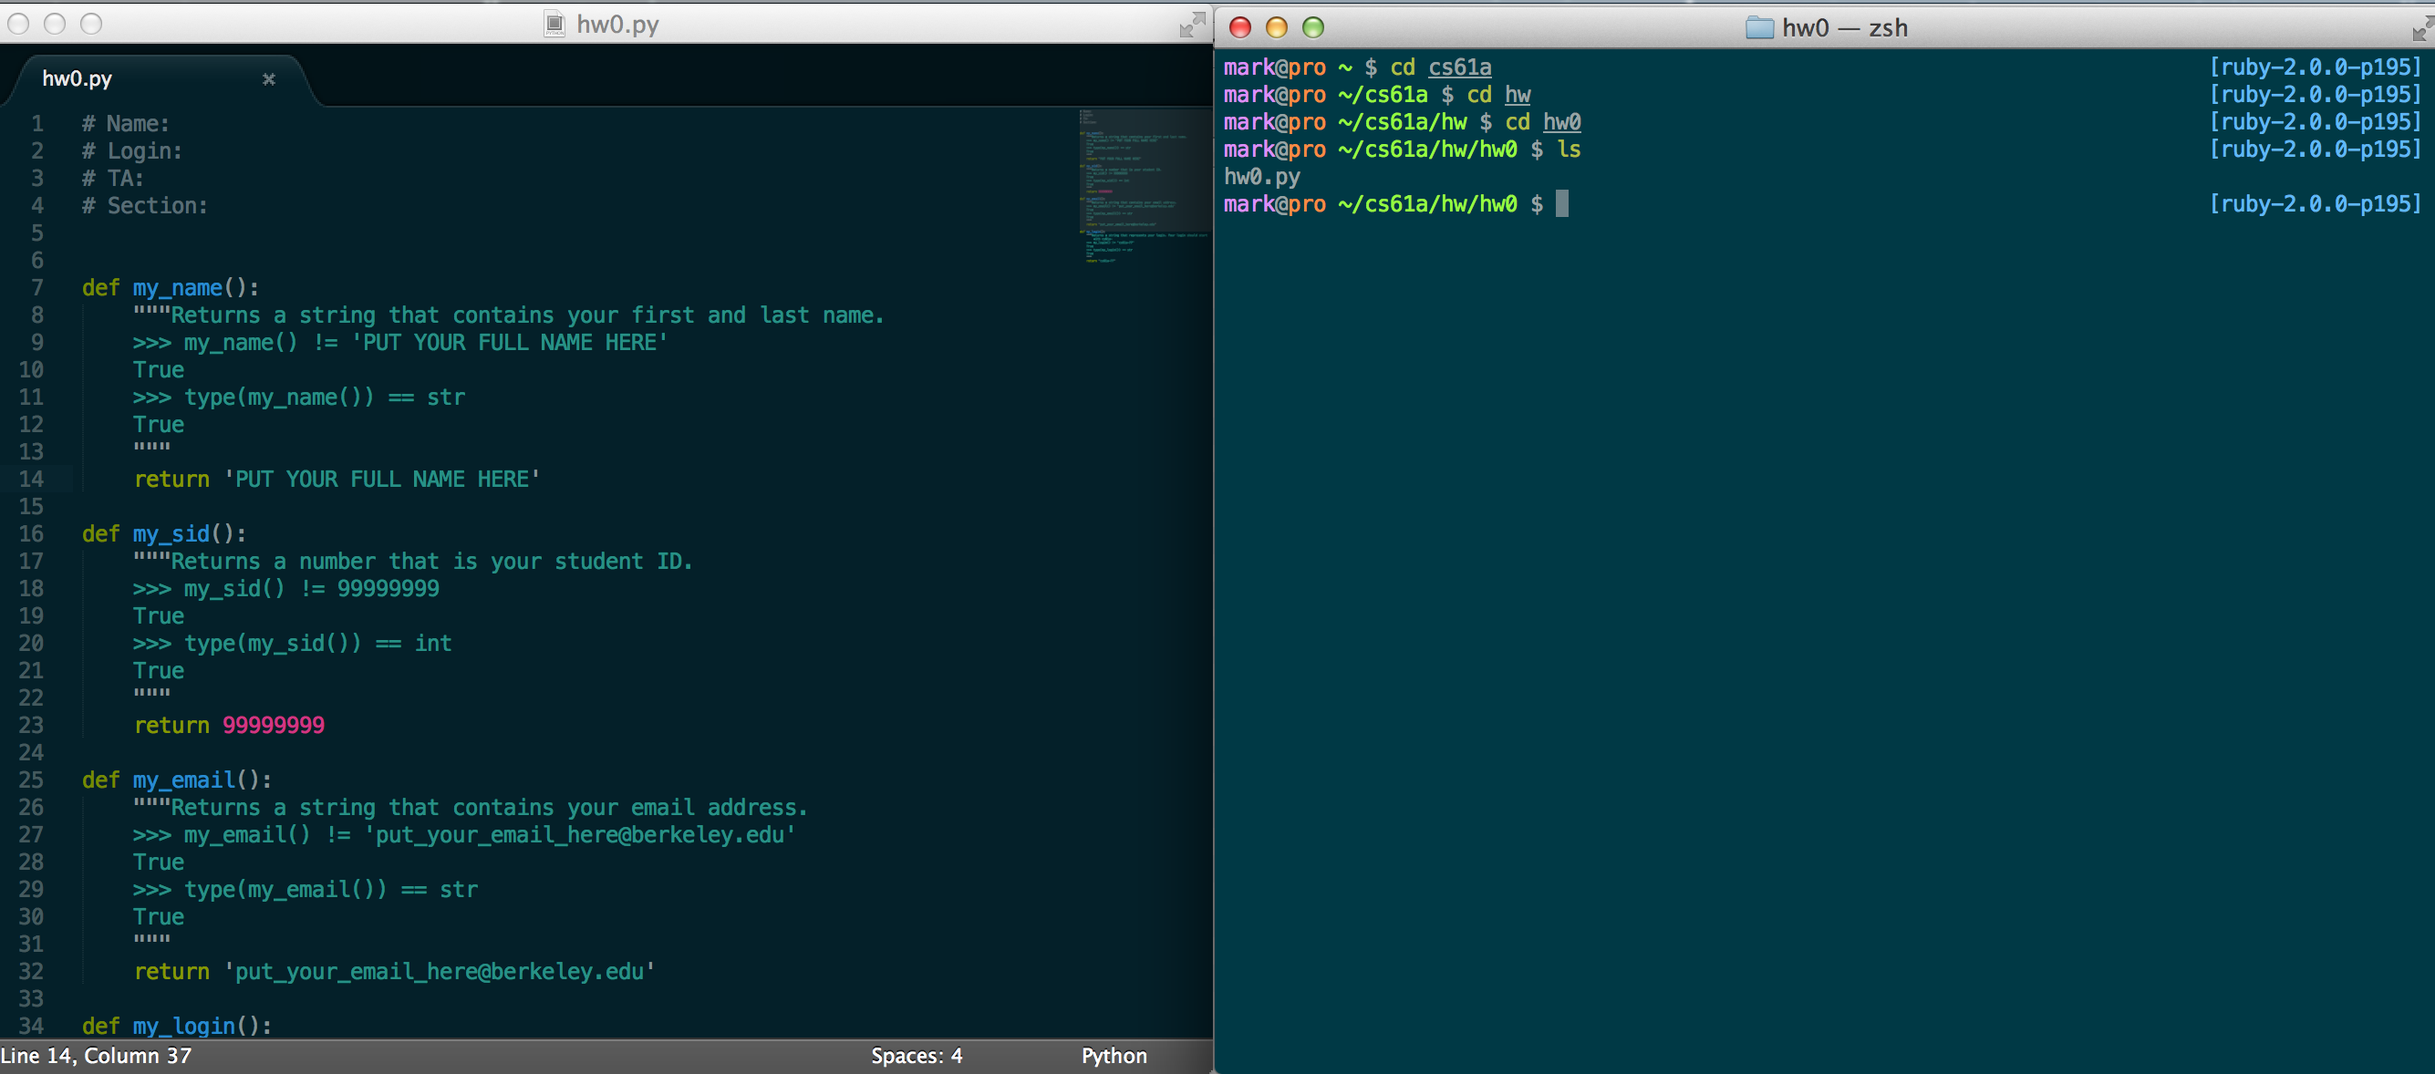
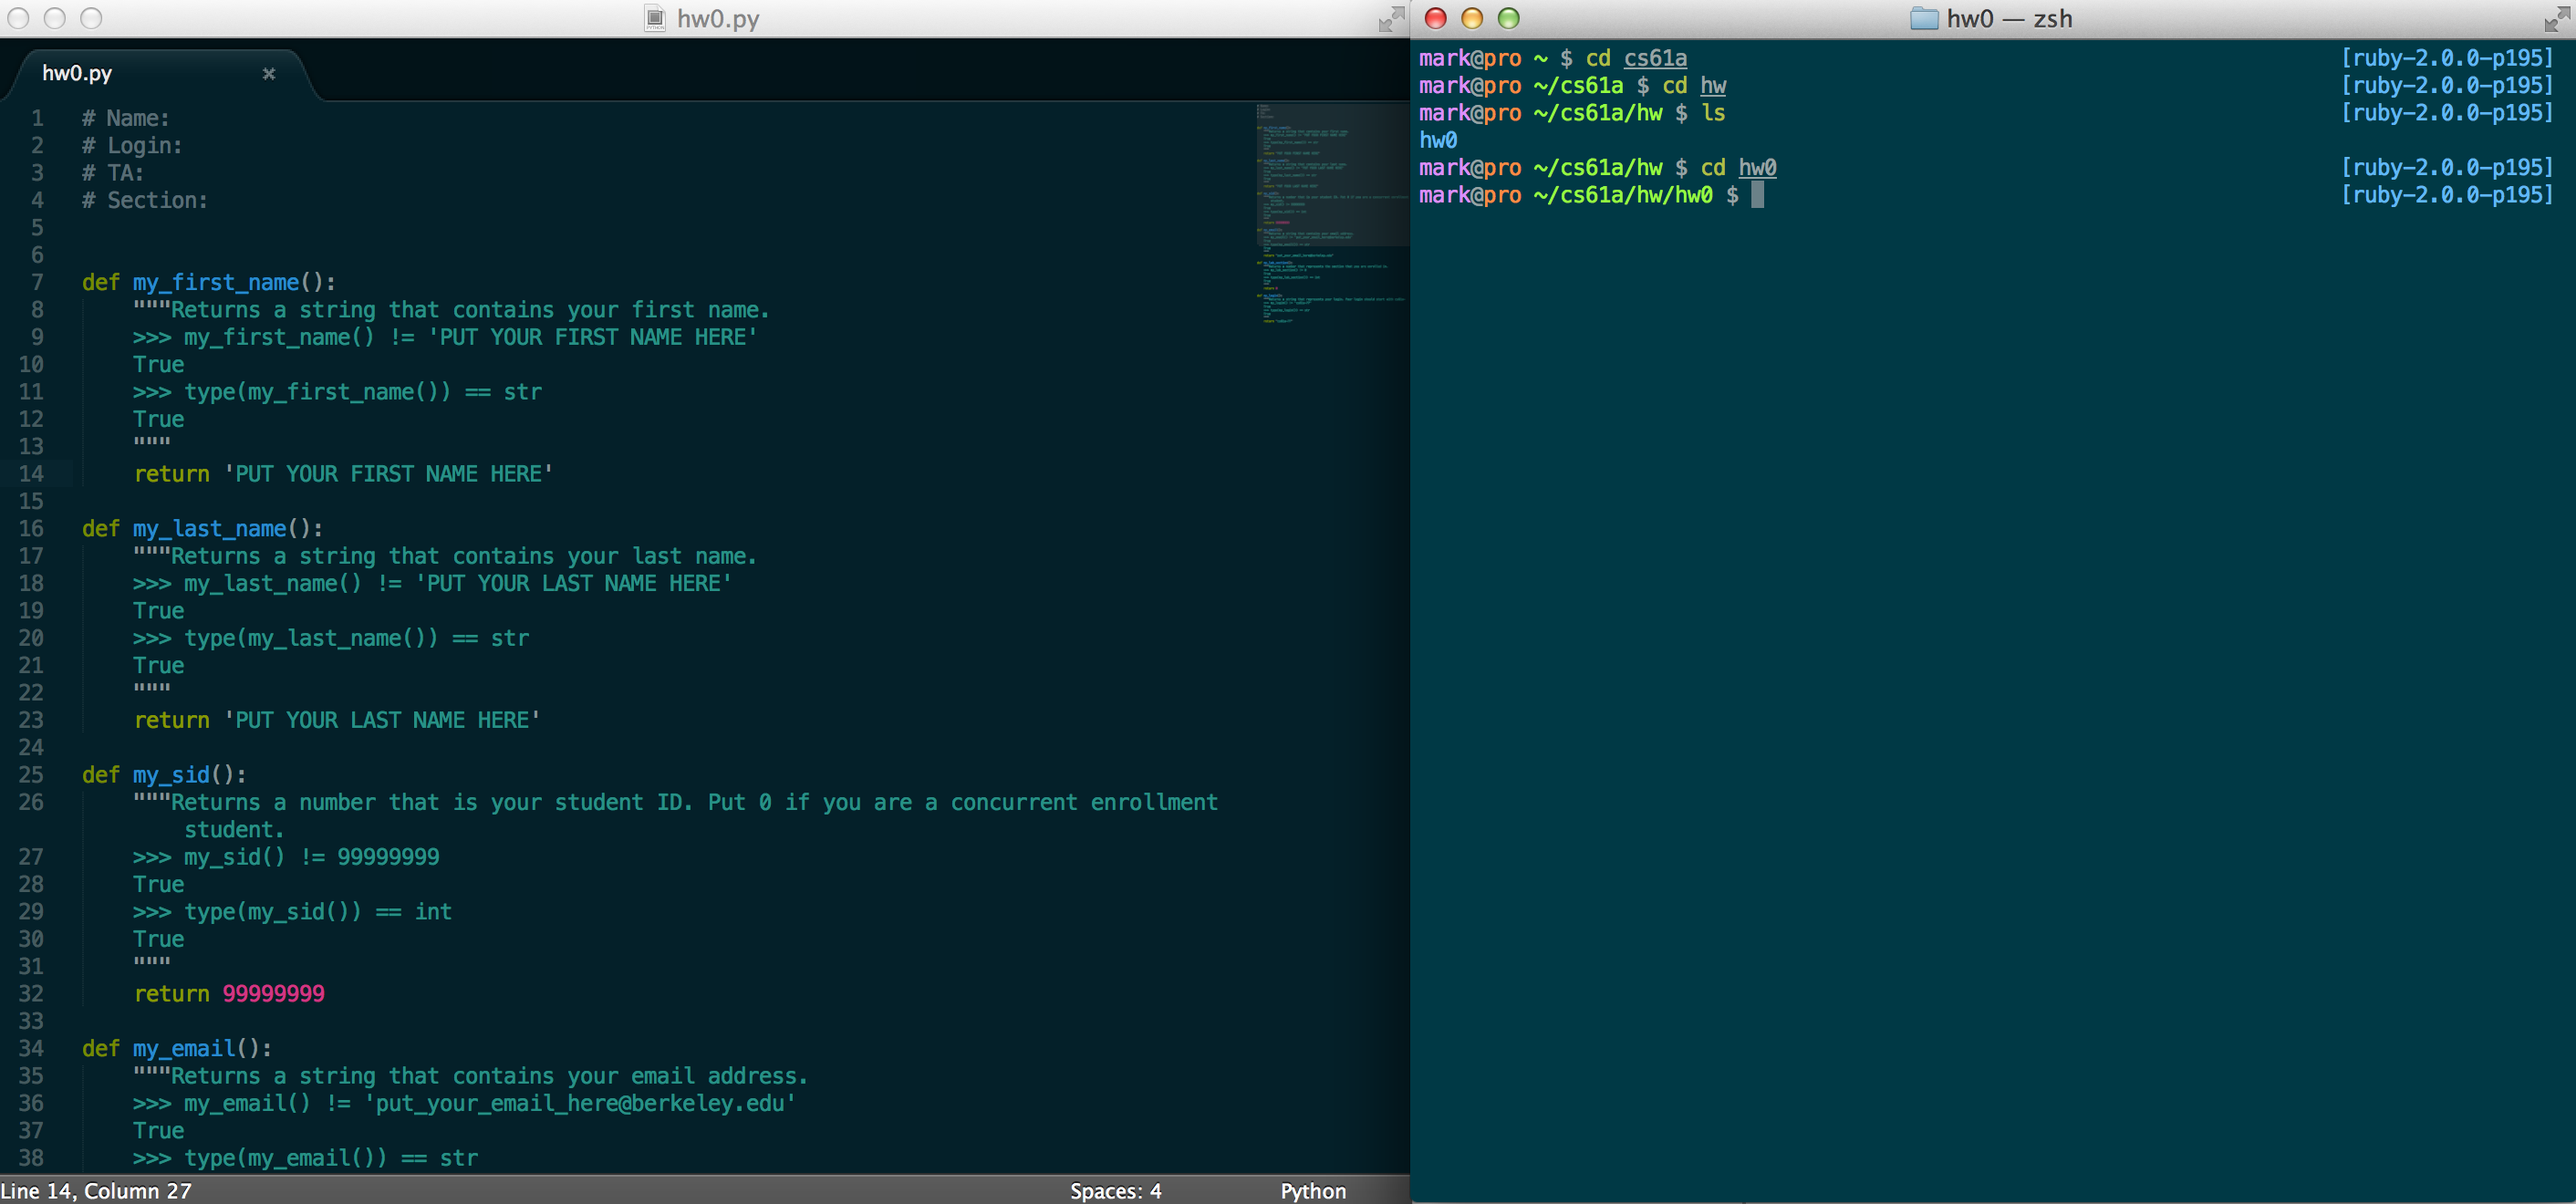
New screenshots with the updated functions and corresponding doctests

Changed region(s): [[0.0, 0.0, 1.0, 1.0]]

diff --git a/lab/lab01/lab01.php b/lab/lab01/lab01.php
@@ -112,7 +112,7 @@
       other funky characters such as <code>>>></code>. That's the start of what we call <em>doctests</em>. Doctests are a good way to also describe our function
       because they provide controlled input and expected output for our functions. What that means is that we call our function having some expected
       value (which we write out explicitly) and expect that it does have that value. An example might make a lot more sense here so let's take a look
-      specifically at the <code>my_name()</code> function.
+      specifically at the <code>my_last_name()</code> function.
     </p>
 
     <img alt="my_name function" src="./imgs/my_name.png" width="50%"></img>
@@ -239,24 +239,24 @@
     <img src="./imgs/doctest_output.png" width="50%"></img>
 
     <p>
-      Oh man, we had 4 failures! :( Let's fix those up so that we have 0 failures. Before we can do that, we should analyze this output. In particular,
-      let's look at the <code>my_name</code> test that we failed, highlighed here:
+      Oh man, we had 6 failures! :( Let's fix those up so that we have 0 failures. Before we can do that, we should analyze this output. In particular,
+      let's look at the <code>my_last_name</code> test that we failed, highlighed here:
     </p>
 
     <img src="./imgs/my_name_test_failure.png" width="50%"></img>
 
     <p>
       The output gives us some pretty good debugging info. If you haven't already, take a look at Albert's debugging guide located <a href="">here.</a>
-      Looking at this particular test. It's saying that we had an error in our <code>hw0.py</code> file on line 9 in the function <code>my_name</code>. That's
+      Looking at this particular test. It's saying that we had an error in our <code>hw0.py</code> file on line 9 in the function <code>my_last_name</code>. That's
       pretty useful because we know exactly where to look for it. This is why line numbers are a must for our text editors. After we find the correct line,
-      let's try to understand what the test is saying. It's saing that the function <code>my_name</code>, when called with zero inputs, should return <strong>not</strong>
+      let's try to understand what the test is saying. It's saing that the function <code>my_last_name</code>, when called with zero inputs, should return <strong>not</strong>
       return the string <code>'PUT YOUR FULL NAME HERE'</code>. Except, ours is returning that string! Let's change that to your full name. Make sure you enter this information in
       carefully because this is how we will associate all homework, projects, and exams with you and your account.
     </p>
 
     <p>
-      Once you have changed the return value of the function <code>my_name</code> (make sure that you're still returning a string (you can tell this by whether or not it has quotes around it)),
-      you should be able to run the doctests again and your test for <code>my_name</code> should pass! Now you only have 3 failures to fix up!
+      Once you have changed the return value of the function <code>my_last_name</code> (make sure that you're still returning a string (you can tell this by whether or not it has quotes around it)),
+      you should be able to run the doctests again and your test for <code>my_last_name</code> should pass! Now you only have 5 failures to fix up!
     </p>
 
     <p>
@@ -268,6 +268,11 @@
 
     <p class="codemargin">
       python3 -m doctest -v hw0.py
+    </p>
+
+    <p>
+      For the section number, <strong>please put down your lab section number</strong>. This number will be between 11 and 43. You can find a complete list of all the sections on the class
+      calendar which is located <a href="http://www-inst.eecs.berkeley.edu/~cs61a/fa13/#schedule">here.</a>
     </p>
 
     <p>
@@ -408,7 +413,9 @@
       The autograder is a program that runs on our servers over your projects after you submit them. Once you submit your project, it will be added to the line of projects that we
       will then run the autograder over. When the autograded finishes running over your project, you'll receive an email with an automated response that let's you know
       how your project is doing (in terms of which tests you're passing and which ones you're failing). The autograder is a subset of the tests that we will run on your project
-      to determine your grade meaning that it might catch some, but not all of your errors; however, it is a good indicator of how well you're doing on the projct so far.
+      to determine your grade meaning that it might catch some, but not all of your errors; however, it is a good indicator of how well you're doing on the projct so far. This does
+      mean that you should always write your own tests for your projects. We'll get into exactly what "good testing" is later on in this course, but the thing to realize right now
+      is that the Autograder should not be used to determine the correctness of your project and that you should be using other methods to test your code!
     </p>
 
     <p>

diff --git a/lab/lab01/hw0.py b/lab/lab01/hw0.py
@@ -4,17 +4,26 @@
 # Section:
 
 
-def my_name():
-    """Returns a string that contains your first and last name.
-    >>> my_name() != 'PUT YOUR FULL NAME HERE'
+def my_first_name():
+    """Returns a string that contains your first name.
+    >>> my_first_name() != 'PUT YOUR FIRST NAME HERE'
     True
-    >>> type(my_name()) == str
+    >>> type(my_first_name()) == str
     True
     """
-    return 'PUT YOUR FULL NAME HERE'
+    return 'PUT YOUR FIRST NAME HERE'
+
+def my_last_name():
+    """Returns a string that contains your last name.
+    >>> my_last_name() != 'PUT YOUR LAST NAME HERE'
+    True
+    >>> type(my_last_name()) == str
+    True
+    """
+    return 'PUT YOUR LAST NAME HERE'
 
 def my_sid():
-    """Returns a number that is your student ID.
+    """Returns a number that is your student ID. Put 0 if you are a concurrent enrollment student.
     >>> my_sid() != 99999999
     True
     >>> type(my_sid()) == int
@@ -30,6 +39,15 @@ def my_email():
     True
     """
     return 'put_your_email_here@berkeley.edu'
+
+def my_lab_section():
+    """Returns a number that represents the section that you are enrolled in.
+    >>> 11 <= my_lab_section() <= 43
+    True
+    >>> type(my_lab_section()) == int
+    True
+    """
+    return 0
 
 def my_login():
     """Returns a string that represents your login. Your login should start with cs61a-
